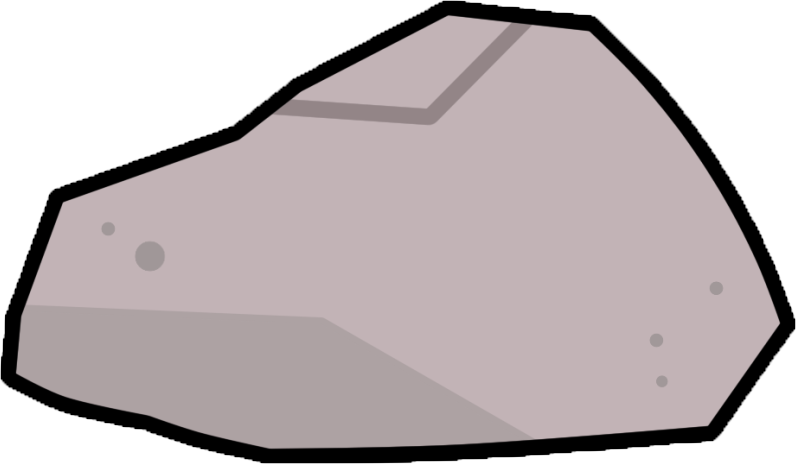
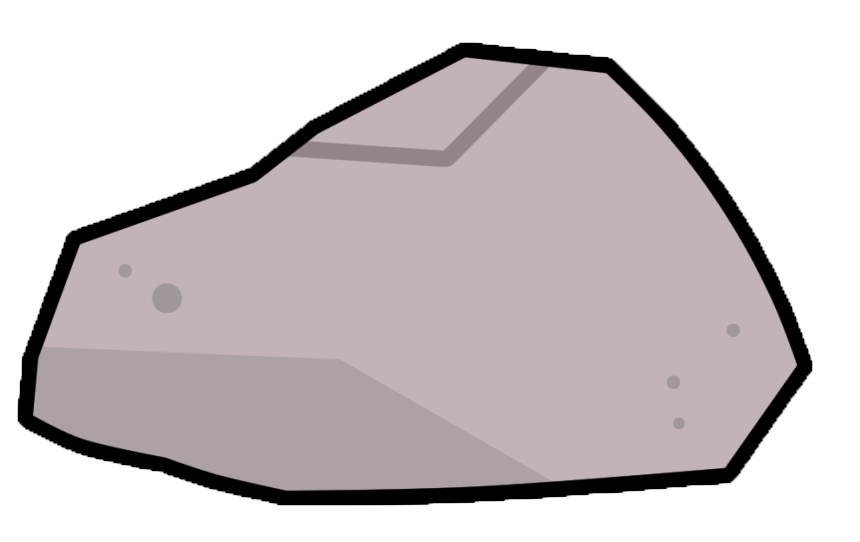
Complete

diff --git a/Game1.cs b/Game1.cs
@@ -11,18 +11,18 @@ namespace Rex_Jump_Final_Project
     {
         private GraphicsDeviceManager _graphics;
         private SpriteBatch _spriteBatch;
-        Texture2D dinoTexture, introTexture, gameTexture,rockTexture,controlTexture,endTexture;
-        Rectangle introRect,gameRect,rockRect,controlRect,endRect;
-        Vector2 rockSpeed;
+        Texture2D dinoTexture, introTexture, gameTexture, rockTexture, controlTexture, endTexture, rock2Texture;
+        Rectangle introRect, gameRect, rockRect, controlRect, endRect, rock2Rect;
+        Vector2 rockSpeed, rock2Speed;
         KeyboardState KeyboardState, prevKeyboardState, kstate;
-        SpriteFont introFont,gameFont,controlFont,endFont,timerFont;
+        SpriteFont introFont, gameFont, controlFont, endFont, timerFont;
         Screen screen;
-        SoundEffect introMusic;
+        SoundEffect introMusic,jump;
         float seconds, startTime;
 
         Character dino;
         bool musicPlaying;
-       
+
         enum Screen
         {
             Intro,
@@ -30,7 +30,7 @@ namespace Rex_Jump_Final_Project
             Game,
             End,
         }
-        
+
         public Game1()
         {
             _graphics = new GraphicsDeviceManager(this);
@@ -47,6 +47,8 @@ namespace Rex_Jump_Final_Project
             //dinoRect = new Rectangle(20, 315, 150, 50);
             rockRect = new Rectangle(500, 315, 100, 50);
             rockSpeed = new Vector2(5, 5);
+            rock2Rect = new Rectangle(700, 315, 100, 50);
+            rock2Speed = new Vector2(5, 5);
             introRect = new Rectangle(0, 0, _graphics.PreferredBackBufferWidth, _graphics.PreferredBackBufferHeight + 20);
             controlRect = new Rectangle(0, 0, _graphics.PreferredBackBufferWidth, _graphics.PreferredBackBufferHeight + 20);
             gameRect = new Rectangle(0, 0, _graphics.PreferredBackBufferWidth, _graphics.PreferredBackBufferHeight + 20);
@@ -59,6 +61,7 @@ namespace Rex_Jump_Final_Project
             _spriteBatch = new SpriteBatch(GraphicsDevice);
             dinoTexture = Content.Load<Texture2D>("Dino final project");
             rockTexture = Content.Load<Texture2D>("Newrock");
+            rock2Texture = Content.Load<Texture2D>("rock2");
             introFont = Content.Load<SpriteFont>("IntroFont");
             gameFont = Content.Load<SpriteFont>("File");
             controlFont = Content.Load<SpriteFont>("Controls");
@@ -70,43 +73,48 @@ namespace Rex_Jump_Final_Project
             dino = new Character(Content.Load<Texture2D>("Dino final project"), new Vector2(100, 270));
             //rock = new Character(Content.Load<Texture2D>("Newrock"), new Vector2(100, 270));
             introMusic = Content.Load<SoundEffect>("introMusic");
-            endTexture= Content.Load<Texture2D>("endScreen");
+            endTexture = Content.Load<Texture2D>("endScreen");
             timerFont = Content.Load<SpriteFont>("timerFont");
+            jump = Content.Load<SoundEffect>("Mario Jump");
 
         }
 
 
         protected override void Update(GameTime gameTime)
         {
+            if (GamePad.GetState(PlayerIndex.One).Buttons.Back == ButtonState.Pressed || Keyboard.GetState().IsKeyDown(Keys.Escape))
+                Exit();
             seconds = (float)gameTime.TotalGameTime.TotalSeconds - startTime;
+
             dino.update(gameTime);
             prevKeyboardState = KeyboardState;
             KeyboardState = Keyboard.GetState();
-            if (GamePad.GetState(PlayerIndex.One).Buttons.Back == ButtonState.Pressed || Keyboard.GetState().IsKeyDown(Keys.Escape))
-                Exit();
-            //seconds = (float)gameTime.TotalGameTime.TotalSeconds - startTime;
-            //if (seconds > 10) // Takes a timestamp every 10 seconds.
-                //startTime = (float)gameTime.TotalGameTime.TotalSeconds;
 
 
+            if (dino.Intercects(rockRect))
+                startTime = (float)gameTime.TotalGameTime.TotalSeconds;
+
+            if (dino.Intercects(rock2Rect))
+                startTime = (float)gameTime.TotalGameTime.TotalSeconds;
 
             if (screen == Screen.Intro)
             {
                 if (musicPlaying == false)
                 {
                     introMusic.Play();
-                     musicPlaying = true;
+                    musicPlaying = true;
                 }
                 if (KeyboardState.IsKeyDown(Keys.Enter))
                 {
                     screen = Screen.Controls;
                     rockRect.X += (int)rockSpeed.X;
+                    rock2Rect.X += (int)rock2Speed.X;
                     introMusic.Play();
-                    
+
 
                 }
-               
-                
+
+
             }
             else if (screen == Screen.Controls)
             {
@@ -120,36 +128,45 @@ namespace Rex_Jump_Final_Project
             {
                 dino.update(gameTime);
                 rockRect.X += (int)rockSpeed.X;//run right
-
+                rock2Rect.X += (int)rock2Speed.X;//run right
                 if (dino.Intercects(rockRect))
                 {
                     screen = Screen.End;
                 }
-                    
+
+                if (rockRect.Right < 0)
+                {
+                    rockRect.X = _graphics.PreferredBackBufferWidth;
+                }
 
                 if (KeyboardState.IsKeyDown(Keys.Escape))
                 {
                     Exit();
                 }
-
+                if (KeyboardState.IsKeyDown(Keys.Enter))
+                {
+                    jump.Play();
+                }
             }
-            if (rockRect.Right < 0)
+            else if (screen == Screen.End)
             {
-                rockRect.X = _graphics.PreferredBackBufferWidth;
-            }
-            if (KeyboardState.IsKeyDown(Keys.R))
-            {
-                screen = Screen.Game;
-                seconds = 1;
+                if (KeyboardState.IsKeyDown(Keys.R))
+                {
+                    screen = Screen.Game;
+                    seconds = 1;
+                    rockRect.X = _graphics.PreferredBackBufferWidth;
 
+                }
             }
             
 
 
 
+
+
         }
-        
-        
+
+
 
 
         protected override void Draw(GameTime gameTime)
@@ -181,13 +198,18 @@ namespace Rex_Jump_Final_Project
                 {
                     _spriteBatch.Draw(rockTexture, rockRect, Color.White);
                 }
+                if (seconds >= 10)
+                {
+                    _spriteBatch.Draw(rock2Texture, rock2Rect, Color.White);
+                }
             }
             else if (screen == Screen.End)
             {
                 _spriteBatch.Draw(endTexture, endRect, Color.White);
                 _spriteBatch.DrawString(endFont, "You died ", new Vector2(350, 50), Color.White);
-                _spriteBatch.DrawString(endFont, "Press R to respawn", new Vector2(100, 100), Color.White);
-                _spriteBatch.DrawString(endFont, "You lasted" + (seconds), new Vector2(400, 100), Color.White);
+                _spriteBatch.DrawString(endFont, "Press R to respawn", new Vector2(50, 200), Color.White);
+                _spriteBatch.DrawString(endFont, "You lasted " + (seconds), new Vector2(400, 100), Color.White);
+
             }
 
             _spriteBatch.End();
